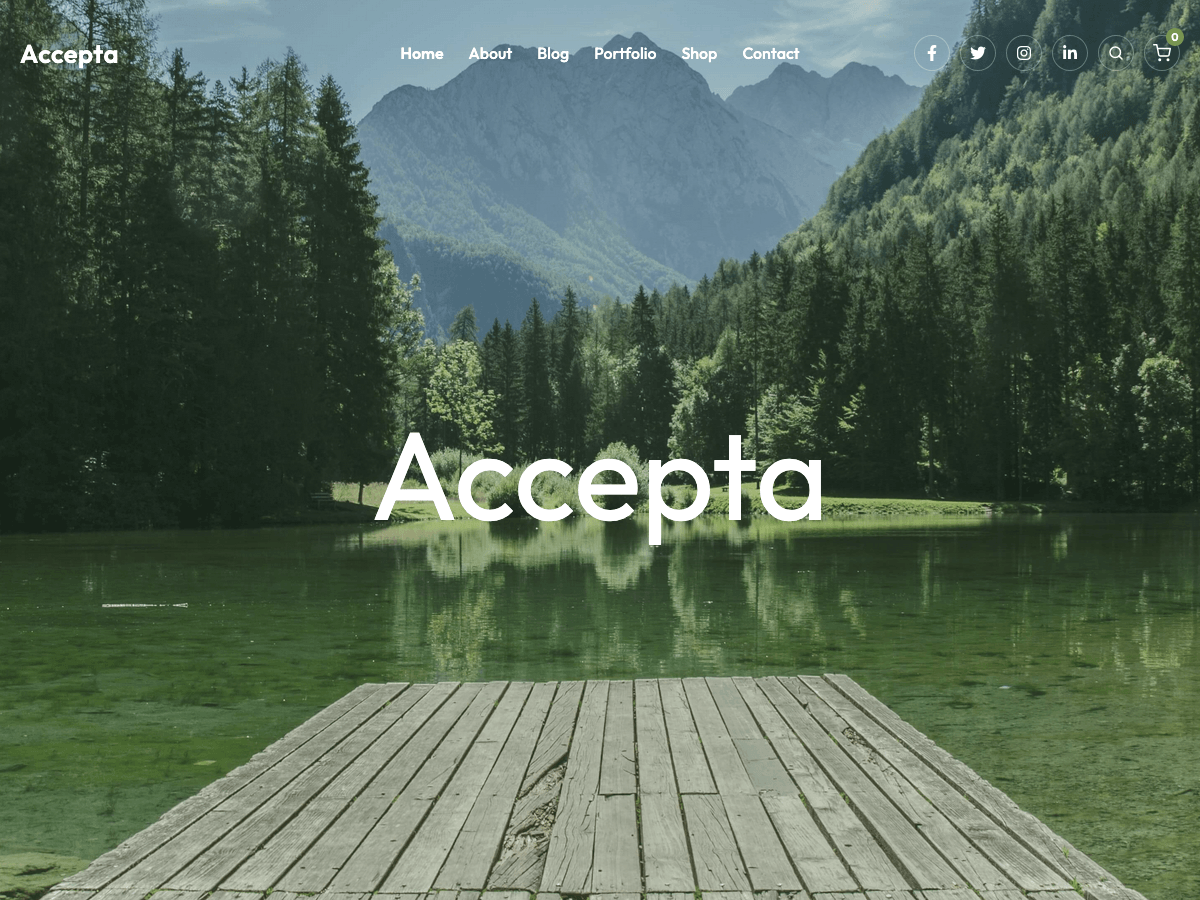
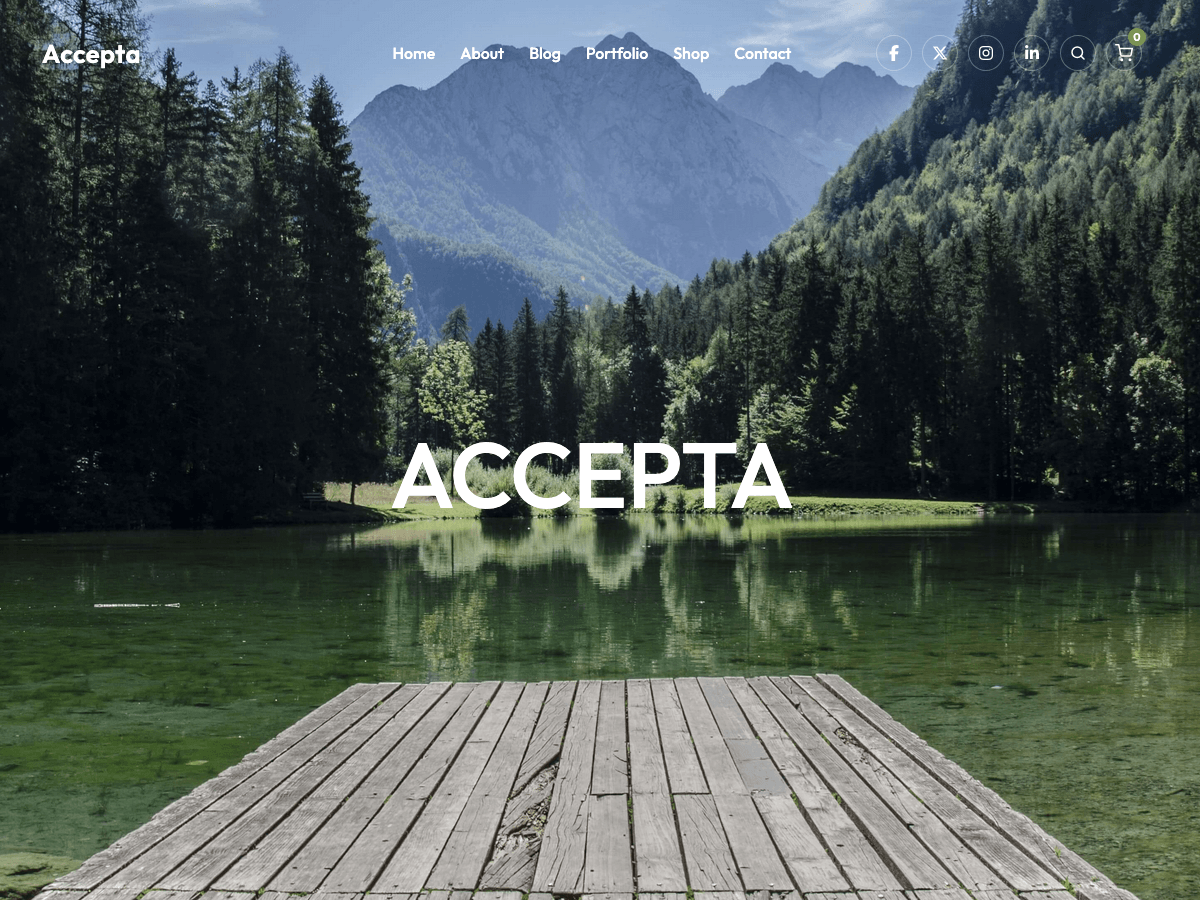
up

diff --git a/sass/layouts/_container.scss b/sass/layouts/_container.scss
@@ -4,9 +4,15 @@
   width: 100%;
   margin-left: auto;
   margin-right: auto;
-  padding-left: 20px;
-  padding-right: 20px;
+  padding-left: 0;
+  padding-right: 0;
   box-sizing: border-box;
+
+  // Below container width + side padding, inset content from viewport edges.
+  @media (max-width: ($size__site-container-breakpoint - 1px)) {
+    padding-left: $size__site-container-padding;
+    padding-right: $size__site-container-padding;
+  }
 }
 
 // Make sure images and content stay within the container
@@ -56,31 +62,17 @@ img {
 }
 
 // Header/footer container padding follows width layout (see body classes).
-body.accepta-header-boxed {
-  .site-header .container {
-    padding-left: 0;
-    padding-right: 0;
-  }
-}
-
 body.accepta-header-fullwidth {
   .site-header .container {
-    padding-left: 20px;
-    padding-right: 20px;
-  }
-}
-
-body.accepta-footer-boxed {
-  .site-footer .container {
-    padding-left: 0;
-    padding-right: 0;
+    padding-left: $size__site-container-padding;
+    padding-right: $size__site-container-padding;
   }
 }
 
 body.accepta-footer-fullwidth {
   .site-footer .container {
-    padding-left: 20px;
-    padding-right: 20px;
+    padding-left: $size__site-container-padding;
+    padding-right: $size__site-container-padding;
   }
 }
 
@@ -192,35 +184,21 @@ body.accepta-footer-fullwidth {
 // Responsive adjustments
 @media screen and (max-width: 599px) {
   .container {
-    padding-left: 15px;
-    padding-right: 15px;
-  }
-
-  body.accepta-header-boxed {
-    .site-header .container {
-      padding-left: 0;
-      padding-right: 0;
-    }
+    padding-left: $size__site-container-padding-mobile;
+    padding-right: $size__site-container-padding-mobile;
   }
 
   body.accepta-header-fullwidth {
     .site-header .container {
-      padding-left: 15px;
-      padding-right: 15px;
-    }
-  }
-
-  body.accepta-footer-boxed {
-    .site-footer .container {
-      padding-left: 0;
-      padding-right: 0;
+      padding-left: $size__site-container-padding-mobile;
+      padding-right: $size__site-container-padding-mobile;
     }
   }
 
   body.accepta-footer-fullwidth {
     .site-footer .container {
-      padding-left: 15px;
-      padding-right: 15px;
+      padding-left: $size__site-container-padding-mobile;
+      padding-right: $size__site-container-padding-mobile;
     }
   }
   
@@ -228,15 +206,13 @@ body.accepta-footer-fullwidth {
   .site-footer {
     .site-header-container,
     .site-info {
-      padding-left: 15px;
-      padding-right: 15px;
+      padding-left: $size__site-container-padding-mobile;
+      padding-right: $size__site-container-padding-mobile;
     }
   }
   
   .content-sidebar-wrap {
     flex-direction: column;
-    padding-left: 15px;
-    padding-right: 15px;
   }
   
   #primary, #secondary,

diff --git a/assets/css/accepta-rtl.css b/assets/css/accepta-rtl.css
@@ -891,9 +891,15 @@ a:focus-visible {
   width: 100%;
   margin-right: auto;
   margin-left: auto;
-  padding-right: 20px;
-  padding-left: 20px;
+  padding-right: 0;
+  padding-left: 0;
   box-sizing: border-box;
+}
+@media (max-width: 1239px) {
+  .container, .site-content {
+    padding-right: 20px;
+    padding-left: 20px;
+  }
 }
 
 img {
@@ -932,19 +938,9 @@ img {
   box-sizing: border-box;
 }
 
-body.accepta-header-boxed .site-header .container, body.accepta-header-boxed .site-header .site-content {
-  padding-right: 0;
-  padding-left: 0;
-}
-
 body.accepta-header-fullwidth .site-header .container, body.accepta-header-fullwidth .site-header .site-content {
   padding-right: 20px;
   padding-left: 20px;
-}
-
-body.accepta-footer-boxed .site-footer .container, body.accepta-footer-boxed .site-footer .site-content {
-  padding-right: 0;
-  padding-left: 0;
 }
 
 body.accepta-footer-fullwidth .site-footer .container, body.accepta-footer-fullwidth .site-footer .site-content {
@@ -1047,17 +1043,9 @@ body.accepta-footer-fullwidth .site-footer .container, body.accepta-footer-fullw
     padding-right: 15px;
     padding-left: 15px;
   }
-  body.accepta-header-boxed .site-header .container, body.accepta-header-boxed .site-header .site-content {
-    padding-right: 0;
-    padding-left: 0;
-  }
   body.accepta-header-fullwidth .site-header .container, body.accepta-header-fullwidth .site-header .site-content {
     padding-right: 15px;
     padding-left: 15px;
-  }
-  body.accepta-footer-boxed .site-footer .container, body.accepta-footer-boxed .site-footer .site-content {
-    padding-right: 0;
-    padding-left: 0;
   }
   body.accepta-footer-fullwidth .site-footer .container, body.accepta-footer-fullwidth .site-footer .site-content {
     padding-right: 15px;
@@ -1072,8 +1060,6 @@ body.accepta-footer-fullwidth .site-footer .container, body.accepta-footer-fullw
   }
   .content-sidebar-wrap {
     flex-direction: column;
-    padding-right: 15px;
-    padding-left: 15px;
   }
   #primary, #secondary,
   .site-main, .widget-area {

diff --git a/assets/css/accepta.css b/assets/css/accepta.css
@@ -891,9 +891,15 @@ a:focus-visible {
   width: 100%;
   margin-left: auto;
   margin-right: auto;
-  padding-left: 20px;
-  padding-right: 20px;
+  padding-left: 0;
+  padding-right: 0;
   box-sizing: border-box;
+}
+@media (max-width: 1239px) {
+  .container, .site-content {
+    padding-left: 20px;
+    padding-right: 20px;
+  }
 }
 
 img {
@@ -932,19 +938,9 @@ img {
   box-sizing: border-box;
 }
 
-body.accepta-header-boxed .site-header .container, body.accepta-header-boxed .site-header .site-content {
-  padding-left: 0;
-  padding-right: 0;
-}
-
 body.accepta-header-fullwidth .site-header .container, body.accepta-header-fullwidth .site-header .site-content {
   padding-left: 20px;
   padding-right: 20px;
-}
-
-body.accepta-footer-boxed .site-footer .container, body.accepta-footer-boxed .site-footer .site-content {
-  padding-left: 0;
-  padding-right: 0;
 }
 
 body.accepta-footer-fullwidth .site-footer .container, body.accepta-footer-fullwidth .site-footer .site-content {
@@ -1047,17 +1043,9 @@ body.accepta-footer-fullwidth .site-footer .container, body.accepta-footer-fullw
     padding-left: 15px;
     padding-right: 15px;
   }
-  body.accepta-header-boxed .site-header .container, body.accepta-header-boxed .site-header .site-content {
-    padding-left: 0;
-    padding-right: 0;
-  }
   body.accepta-header-fullwidth .site-header .container, body.accepta-header-fullwidth .site-header .site-content {
     padding-left: 15px;
     padding-right: 15px;
-  }
-  body.accepta-footer-boxed .site-footer .container, body.accepta-footer-boxed .site-footer .site-content {
-    padding-left: 0;
-    padding-right: 0;
   }
   body.accepta-footer-fullwidth .site-footer .container, body.accepta-footer-fullwidth .site-footer .site-content {
     padding-left: 15px;
@@ -1072,8 +1060,6 @@ body.accepta-footer-fullwidth .site-footer .container, body.accepta-footer-fullw
   }
   .content-sidebar-wrap {
     flex-direction: column;
-    padding-left: 15px;
-    padding-right: 15px;
   }
   #primary, #secondary,
   .site-main, .widget-area {

diff --git a/assets/js/customizer.js b/assets/js/customizer.js
@@ -217,9 +217,25 @@
 
 	// Container Width Live Preview
 	wp.customize( 'accepta_container_width', function( value ) {
-		value.bind( function( newval ) {
-			var css = '.container { max-width: ' + parseInt( newval ) + 'px; }';
+		function applyContainerWidthLayout( containerWidth ) {
+			var width = parseInt( containerWidth, 10 ) || 1200;
+			var padding = 20;
+			var breakpoint = width + ( padding * 2 ) - 1;
+			var css = '.container, .site-content { max-width: ' + width + 'px; }';
+			css += '.site-header .site-header-container, .site-footer .site-header-container { max-width: ' + width + 'px; }';
+			css += '.site-header .site-info, .site-footer .site-info { max-width: ' + width + 'px; }';
+			css += '.content-sidebar-wrap { max-width: ' + width + 'px; }';
+			css += '@media (max-width: ' + breakpoint + 'px) {';
+			css += '.container, .site-content { padding-left: ' + padding + 'px; padding-right: ' + padding + 'px; }';
+			css += '}';
+			css += '@media (max-width: 599px) {';
+			css += '.container, .site-content { padding-left: 15px; padding-right: 15px; }';
+			css += '}';
 			updateDynamicCSS( 'container-width', css );
+		}
+
+		value.bind( function( newval ) {
+			applyContainerWidthLayout( newval );
 		} );
 	} );
 

diff --git a/sass/abstracts/variables/_structure.scss b/sass/abstracts/variables/_structure.scss
@@ -1,3 +1,6 @@
 $size__site-main: 100%;
 $size__site-sidebar: 25%;
 $size__site-container: 1200px;
+$size__site-container-padding: 20px;
+$size__site-container-padding-mobile: 15px;
+$size__site-container-breakpoint: $size__site-container + ($size__site-container-padding * 2);

diff --git a/inc/customizer.php b/inc/customizer.php
@@ -3372,10 +3372,19 @@ function accepta_layout_css() {
 	// Container width - apply to all container elements for consistent alignment
 	$container_width = get_theme_mod( 'accepta_container_width', 1200 );
 	if ( $container_width ) {
+		$container_padding = 20;
+		$container_breakpoint = absint( $container_width ) + ( $container_padding * 2 ) - 1;
+
 		$css .= '.container, .site-content { max-width: ' . absint( $container_width ) . 'px; }';
 		$css .= '.site-header .site-header-container, .site-footer .site-header-container { max-width: ' . absint( $container_width ) . 'px; }';
 		$css .= '.site-header .site-info, .site-footer .site-info { max-width: ' . absint( $container_width ) . 'px; }';
 		$css .= '.content-sidebar-wrap { max-width: ' . absint( $container_width ) . 'px; }';
+		$css .= '@media (max-width: ' . $container_breakpoint . 'px) {';
+		$css .= '.container, .site-content { padding-left: ' . $container_padding . 'px; padding-right: ' . $container_padding . 'px; }';
+		$css .= '}';
+		$css .= '@media (max-width: 599px) {';
+		$css .= '.container, .site-content { padding-left: 15px; padding-right: 15px; }';
+		$css .= '}';
 	}
 	
 	// Sidebar layout